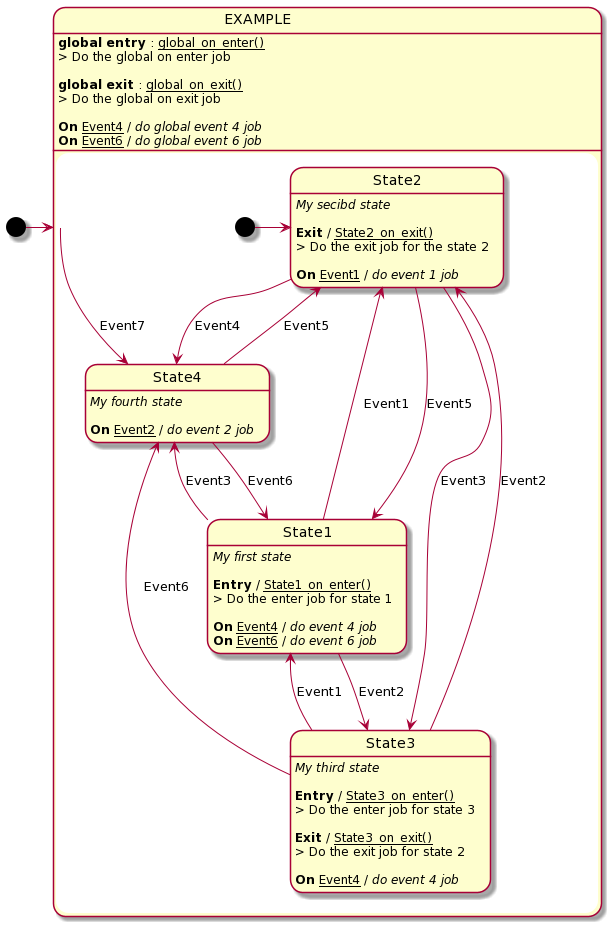
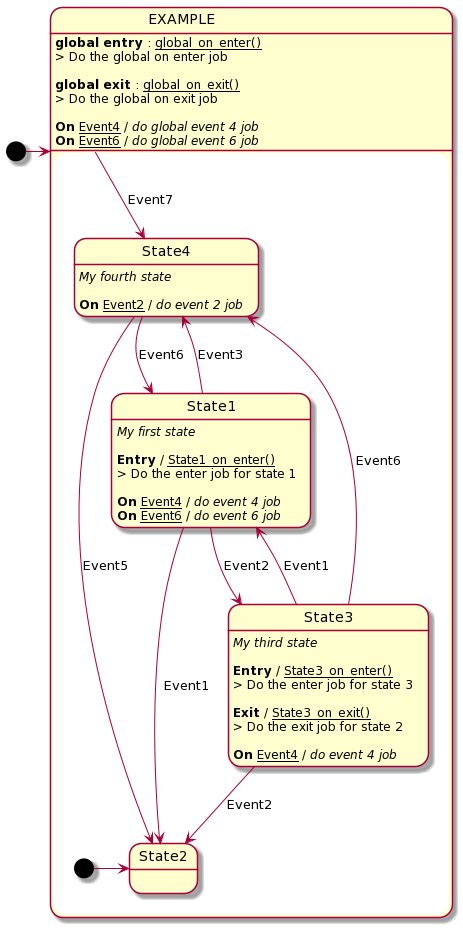
add new element and debug remove and popup

diff --git a/gui/MachineTree.py b/gui/MachineTree.py
@@ -1,5 +1,8 @@
 
 import wx
+import sys
+sys.path.append("..")
+from machine import *
 
 
 class MachineTree(wx.Panel):
@@ -36,34 +39,73 @@ class MachineTree(wx.Panel):
         self.__machine = None
 
     '''
+        @brief append event in tree
+    '''
+    def __appendEvent(self, parent, event):
+        self.__tree.AppendItem(parent, event, data={"type":MachineTree.EVENT, "content":event})
+
+    '''
+        @brief append event in tree
+    '''
+    def __setEvents(self, events, action):
+        self.__tree.SetItemText(events, "Events(%d)"%(len(action.getEvents())))
+
+    '''
+        @brief append state in tree
+    '''
+    def __appendAction(self, parent, action):
+        action_def = self.__tree.AppendItem(parent, "Action", data={"type":MachineTree.ACTION, "content":action})
+        self.__tree.SetItemHasChildren(action_def)
+        
+        sub = self.__tree.AppendItem(action_def, "To : "+str(action.getState()))
+        
+        sub = self.__tree.AppendItem(action_def, "Job : "+str(action.getJob()))
+        
+        lenevents = len(action.getEvents())
+        sub = self.__tree.AppendItem(action_def, "")
+        self.__setEvents(sub, action)
+        if lenevents :
+            self.__tree.SetItemHasChildren(sub)
+        
+        for event in action.getEvents() :
+            self.__appendEvent(sub, event['name'])          
+        self.__tree.Expand(sub)
+        self.__tree.Expand(action_def)
+        
+    '''
         @brief append state in tree
     '''
     def __appendState(self, parent, state, name, type_item):
         state_def = self.__tree.AppendItem(parent, name, 
-                        data={type_item, state})
+                        data={"type":type_item, "content":state})
         self.__tree.SetItemHasChildren(state_def)
                     
-        sub = self.__tree.AppendItem(state_def, "OnEnter : "+state.getEnter())
+        self.__tree.AppendItem(state_def, "OnEnter : "+state.getEnter())
         
-        sub = self.__tree.AppendItem(state_def, "OnExit : "+state.getExit())
+        self.__tree.AppendItem(state_def, "OnExit : "+state.getExit())
         
         for action in state.getActions() :
-            action_def = self.__tree.AppendItem(state_def, "Action", data={MachineTree.ACTION, action})
-            self.__tree.SetItemHasChildren(action_def)
-            
-            sub = self.__tree.AppendItem(action_def, "To : "+str(action.getState()))
-            
-            sub = self.__tree.AppendItem(action_def, "Job : "+str(action.getJob()))
-            
-            lenevents = len(action.getEvents())
-            sub = self.__tree.AppendItem(action_def, "Events(%d)"%(lenevents))
-            if lenevents :
-                self.__tree.SetItemHasChildren(sub)
-            
-            for event in action.getEvents() :
-                self.__tree.AppendItem(sub, event["name"], data={MachineTree.EVENT, event["name"]})
-            self.__tree.Expand(action_def)
+            self.__appendAction(state_def, action)            
+        
+        self.__tree.Expand(state_def)
         return state_def
+
+    '''
+        @brief display machine
+    '''
+    def display(self, machine):
+        self.__machine = machine
+        self.__tree.DeleteAllItems()
+    
+        root = self.__tree.AddRoot("Machine : "+machine.getName(), 
+                        data={"type":MachineTree.MACHINE, "content":machine.getName()})
+        
+        self.__appendState(root, machine.getGlobal(), "Global", MachineTree.GLOBAL)
+        
+        for state in machine.getStates() :             
+            self.__appendState(root, state, "State :" + state.getName(), MachineTree.STATE)
+                
+        self.__tree.Expand(root)
     
     '''
        @brief on item right click
@@ -74,23 +116,26 @@ class MachineTree(wx.Panel):
         itemData = self.__tree.GetItemData(item)
         if itemData == None :
             return
-        typeitem, content = itemData
+        typeitem = itemData['type']
         # Create menu
         popupmenu = wx.Menu()
         menuItem = popupmenu.Append(-1, 'Edit')
         wrapper = lambda event: self.edit(event, item)
         self.Bind(wx.EVT_MENU, wrapper, menuItem)
+        
         if typeitem == MachineTree.MACHINE :
             menuItem = popupmenu.Append(-1, 'Add state')  
             wrapper = lambda event: self.addState(event, item)
             self.Bind(wx.EVT_MENU, wrapper, menuItem)     
+            
         elif typeitem == MachineTree.STATE or typeitem == MachineTree.GLOBAL : 
             menuItem = popupmenu.Append(-1, 'Add action')
             wrapper = lambda event: self.addAction(event, item)
             self.Bind(wx.EVT_MENU, wrapper, menuItem)
+            
         elif typeitem == MachineTree.ACTION : 
             menuItem = popupmenu.Append(-1, 'Add event')
-            wrapper = lambda event: self.addItem(event, item)
+            wrapper = lambda event: self.addEvent(event, item)
             self.Bind(wx.EVT_MENU, wrapper, menuItem) 
         
         if typeitem == MachineTree.STATE or typeitem == MachineTree.ACTION or typeitem == MachineTree.EVENT: 
@@ -140,28 +185,31 @@ class MachineTree(wx.Panel):
         @brief remove item
     '''
     def remove(self, event, item):
-        itemData = self.__tree.GetItemData(item)
-        typeitem, content = itemData
+        typeitem = self.__tree.GetItemData(item)['type']
         
         if typeitem == MachineTree.STATE :
             self.__machine.removeState(self.__findStateIndex(item))
+            self.__tree.Delete(item)
+            
         elif typeitem == MachineTree.ACTION :
             index = self.__findActionIndex(item)
-            item=self.__tree.GetItemParent(item)
-            state = self.__machine.getStates()[self.__findStateIndex(item)]
+            p=self.__tree.GetItemParent(item)
+            self.__tree.Delete(item)
+            state = self.__tree.GetItemData(p)["content"]
             state.removeAction(index)
-            self.__machine.cleanUp()
+            
         elif typeitem == MachineTree.EVENT :
             event = self.__findEventIndex(item)
-            item=self.__tree.GetItemParent(item)
+            p=self.__tree.GetItemParent(item)
+            self.__tree.Delete(item)
+            item=self.__tree.GetItemParent(p)
             action = self.__findActionIndex(item)
             item=self.__tree.GetItemParent(item)
-            state = self.__machine.getStates()[self.__findStateIndex(item)]
+            state = self.__tree.GetItemData(item)["content"]
             action = state.getActions()[action]
             action.removeEvent(event)
-            self.__machine.cleanUp()
-        self.display(self.__machine)
-        
+            self.__setEvents(p, action)
+        self.__machine.cleanUp()
         
     '''
         @brief edit item
@@ -175,39 +223,33 @@ class MachineTree(wx.Panel):
         @brief add state to machine
     '''
     def addState(self, event, item):
-        print(str(event))
-        print(str(item))
+        #todo popup state
+        state = State("test", "a test", "", "")
+        self.__machine.appendState(state)
+        self.__appendState(item, state, "State :" + state.getName(), MachineTree.STATE)
+        
 
                 
     '''
         @brief add action to state
     '''
     def addAction(self, event, item):
-        print(str(event))
-        print(str(item))
+        #todo popup action
+        action = StateAction()
+        state = self.__tree.GetItemData(item)['content']
+            
+        state.appendAction(action)
+        self.__appendAction(item, action)
 
                 
     '''
         @brief add event to action
     '''
     def addEvent(self, event, item):
-        print(str(event))
-        print(str(item))
-
-    '''
-        @brief display machine
-    '''
-    def display(self, machine):
-        self.__machine = machine
-        self.__tree.DeleteAllItems()
-    
-        root = self.__tree.AddRoot("Machine : "+machine.getName(), 
-                        data={MachineTree.MACHINE, machine.getName()})
-        
-        self.__appendState(root, machine.getGlobal(), "Global", MachineTree.GLOBAL)
-        
-        for state in machine.getStates() :             
-            self.__appendState(root, state, "State :" + state.getName(), MachineTree.STATE)
-                
-        self.__tree.Expand(root)
+        #todo popup event
+        action = self.__tree.GetItemData(item)['content']
+        action.addEvent({"name":"test"})
+        item = self.__tree.GetLastChild(item)
+        self.__setEvents(item, action)
+        self.__appendEvent(item, "test")
     

diff --git a/output/machine_example.c b/output/machine_example.c
@@ -121,49 +121,6 @@ statemachineDO_JOB_CLBK(example_machine_State1)
 }
 
 /**
- * @brief do job for state State2
- */
-statemachineDO_JOB_CLBK(example_machine_State2)
-{
-    statemachineNO_DATA(); //Remove this line to use data
-
-    switch(statemachineEVENT_ID())
-    {
-        case example_machine_event_eEVENT3:
-            //TODO write your code here
-            example_machine_set_state( example_machine_state_eSTATE3 );
-        break;
-
-        case example_machine_event_eEVENT4:
-            //TODO write your code here
-            example_machine_set_state( example_machine_state_eSTATE4 );
-        break;
-
-        case example_machine_event_eEVENT5:
-            //TODO write your code here
-            example_machine_set_state( example_machine_state_eSTATE1 );
-        break;
-
-        case example_machine_event_eEVENT1:
-            /* do event 1 job */
-            //TODO write your code here
-                break;
-
-        default:
-        break;
-    }
-}
-
-/**
- * @brief on exit state State2
- */
-statemachineON_EXIT_CLBK(example_machine_State2)
-{
-    /* Do the exit job for the state 2 */
-    //TODO write your code here
-}
-
-/**
  * @brief on enter state State3
  */
 statemachineON_ENTER_CLBK(example_machine_State3)
@@ -257,7 +214,6 @@ statemachineDO_JOB_CLBK(example_machine_State4)
  */
 const statemachine_state_t example_machine_states[example_machine_state_eCOUNT]={
     statemachineSTATE(example_machine_State1, ID ),
-    statemachineSTATE(example_machine_State2, DO ),
     statemachineSTATE(example_machine_State3, IDO ),
     statemachineSTATE(example_machine_State4, D ),
 };

diff --git a/machine/State.py b/machine/State.py
@@ -7,7 +7,7 @@ class StateAction():
         @param to the target state if any
         @param job the job to do if any
     '''
-    def __init__(self, event, to=None, job=None):
+    def __init__(self, event=[], to=None, job=None):
         self.__to = to
         self.__job = job
         self.__events = event
@@ -34,6 +34,13 @@ class StateAction():
         del self.__events[index]
         
     '''
+        @brief add action event
+        @param event, the new event
+    '''            
+    def addEvent(self, event) :
+        self.__events.append(event)
+        
+    '''
         @brief get action job
         @return job
     '''            
@@ -45,9 +52,11 @@ class StateAction():
         @return the string
     '''  
     def __str__(self):
-        output = self.__events[0]["name"]
-        for event in self.__events[1:]:
-            output += " | " + event["name"]
+        output = ""
+        if len(self.__events):
+            output += self.__events[0]["name"]
+            for event in self.__events[1:]:
+                output += " | " + event["name"]
         return "on ("+ output + ")-> " + str(self.__to) +" do "+str(self.__job)
     
 

diff --git a/output/machine_example.h b/output/machine_example.h
@@ -15,10 +15,6 @@ typedef enum
      */
     example_machine_state_eSTATE1 = 0,
     /**
-     * @brief My secibd state
-     */
-    example_machine_state_eSTATE2,
-    /**
      * @brief My third state
      */
     example_machine_state_eSTATE3,
